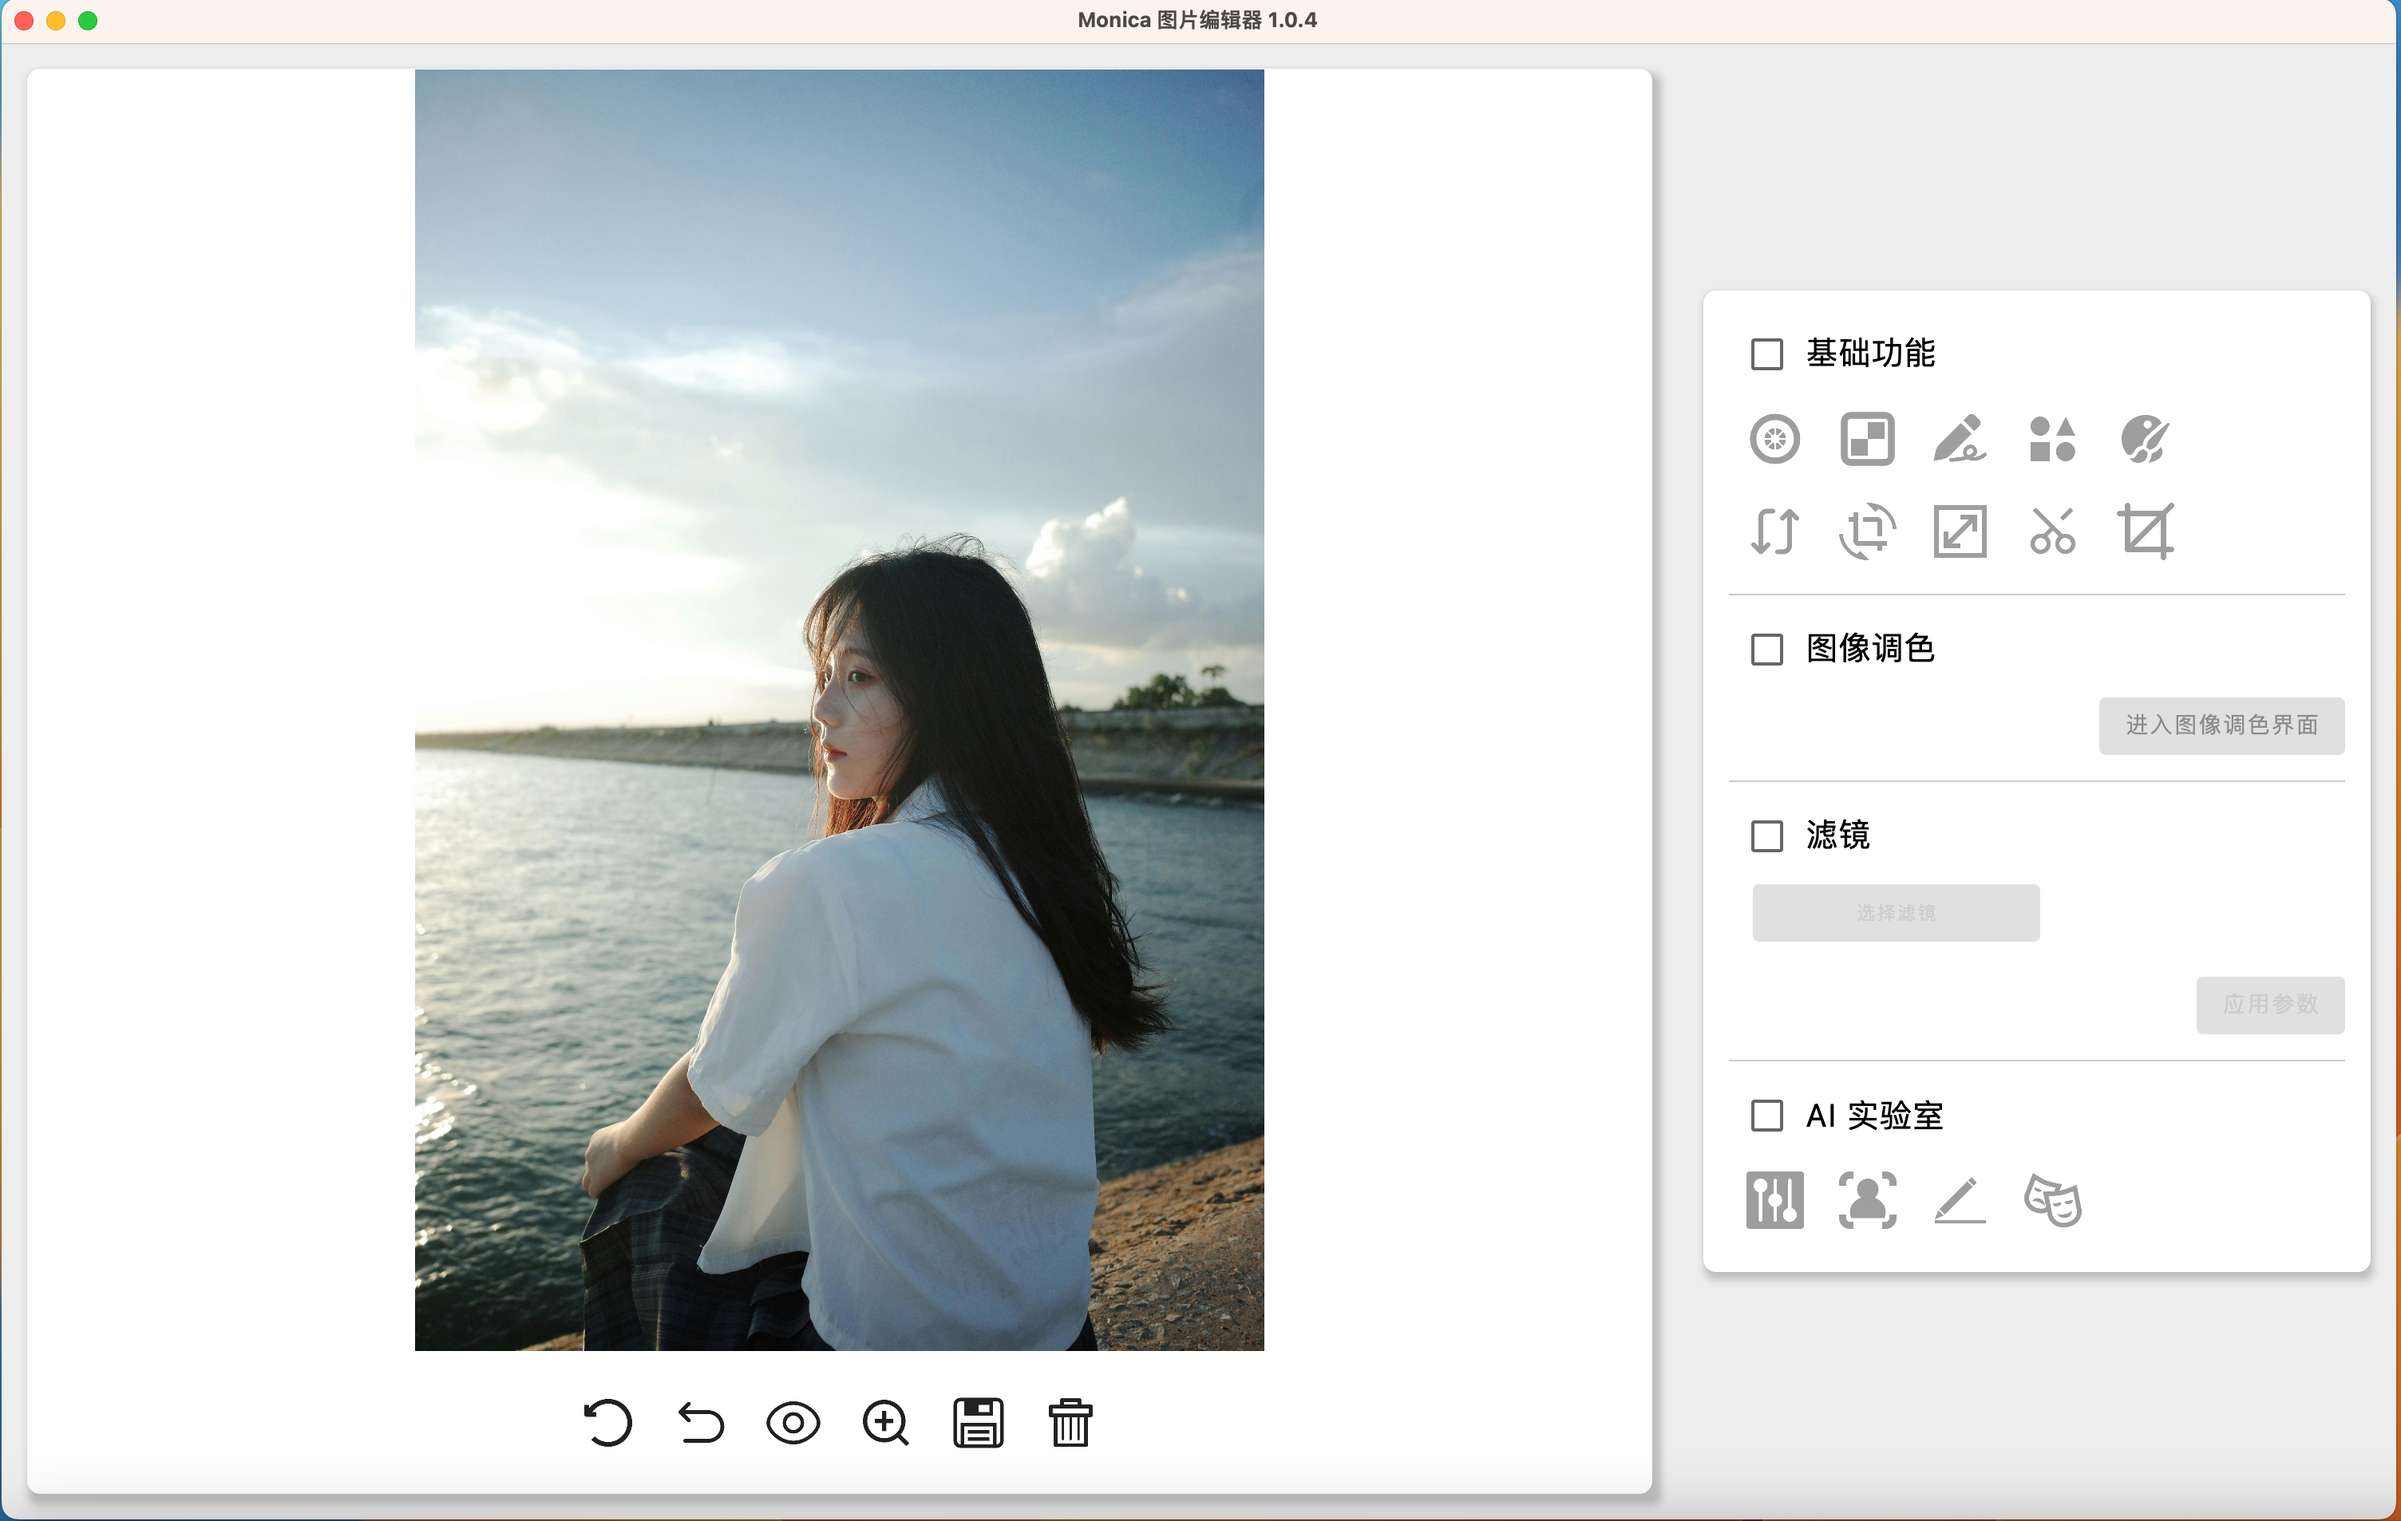
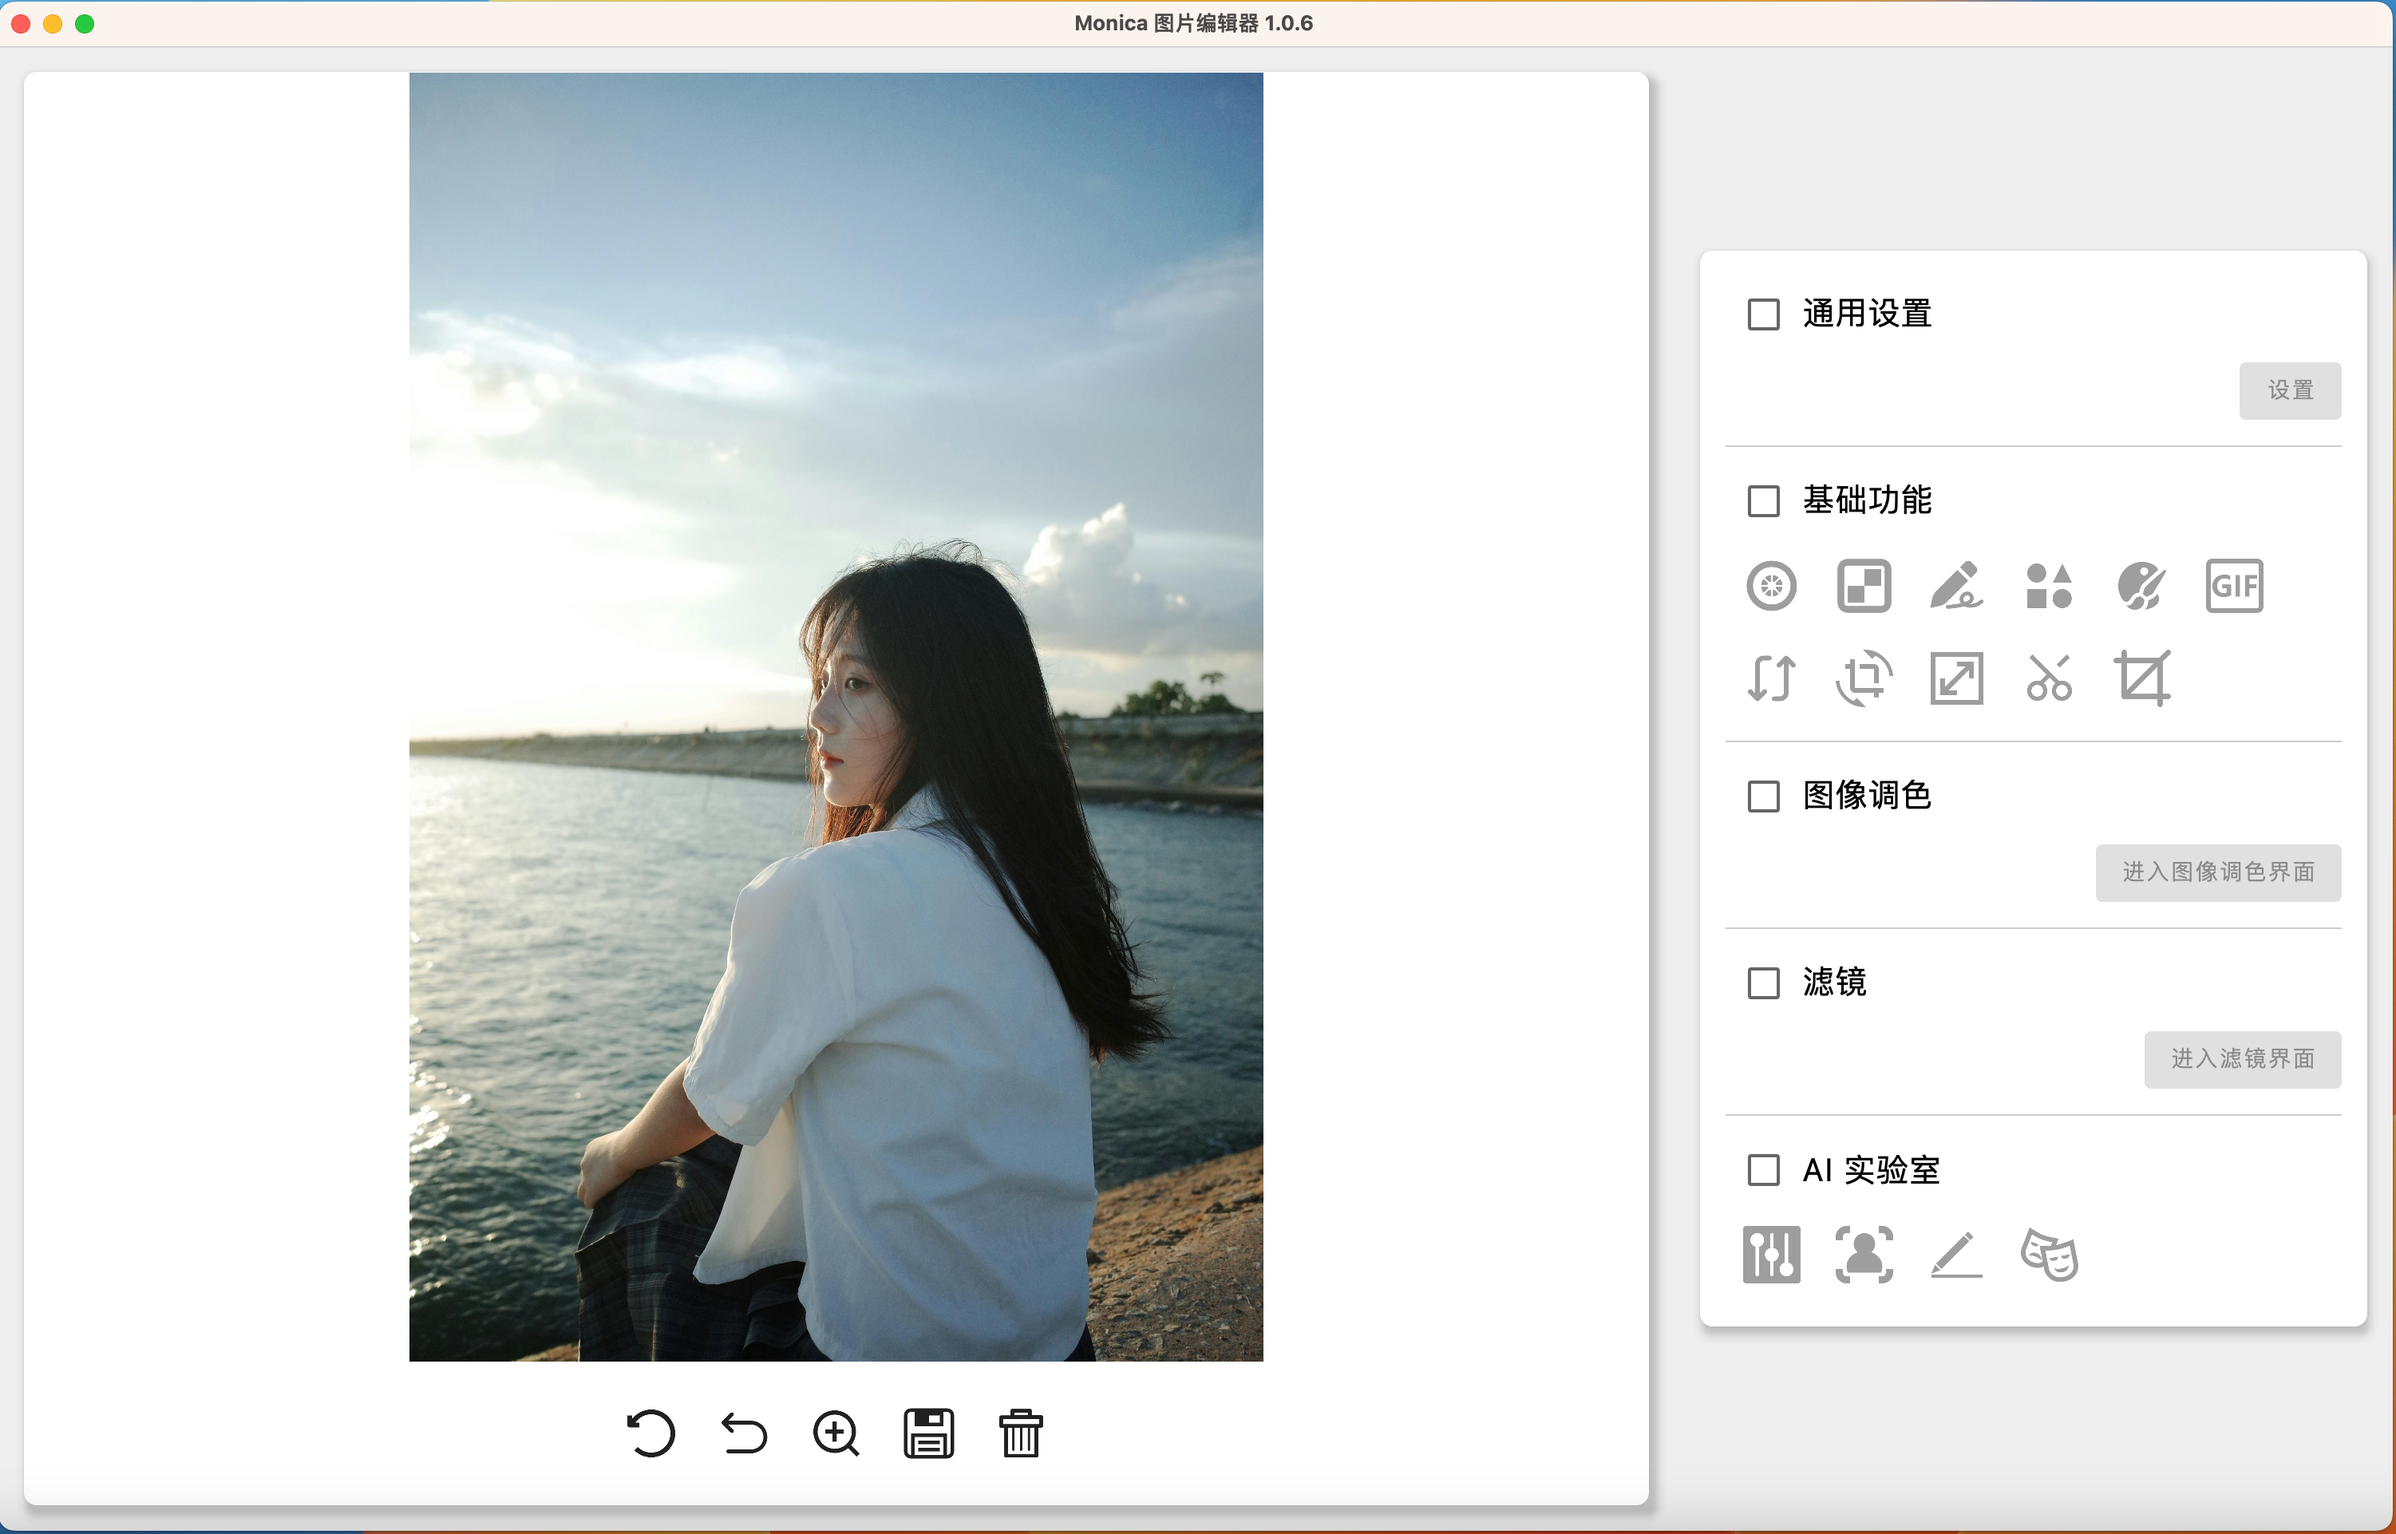
update

diff --git a/README.md b/README.md
@@ -93,6 +93,7 @@ https://juejin.cn/column/7396157773312065574
 * 重构形状绘制模块(绘制完的 Shape 支持拖动）
 * 解决 Mac 打包的问题
 * 支持 GPU 推理
+* 升级使用的一些依赖的库
 * 增加多种格式的图片加载
 * 增加人脸美颜的算法
 

diff --git a/CHANGELOG.md b/CHANGELOG.md
@@ -1,6 +1,13 @@
 Monica
 ===
 
+Version 1.0.6
+---
+2025-4-8
+* 滤镜数量增加到50多款
+* 模型的调用从调用本地算法迁移到通过 http 调用算法服务，减少软件对模型文件的依赖。
+* Kotlin 版本升级到 2.1.0
+
 Version 1.0.5
 ---
 2025-3-6
